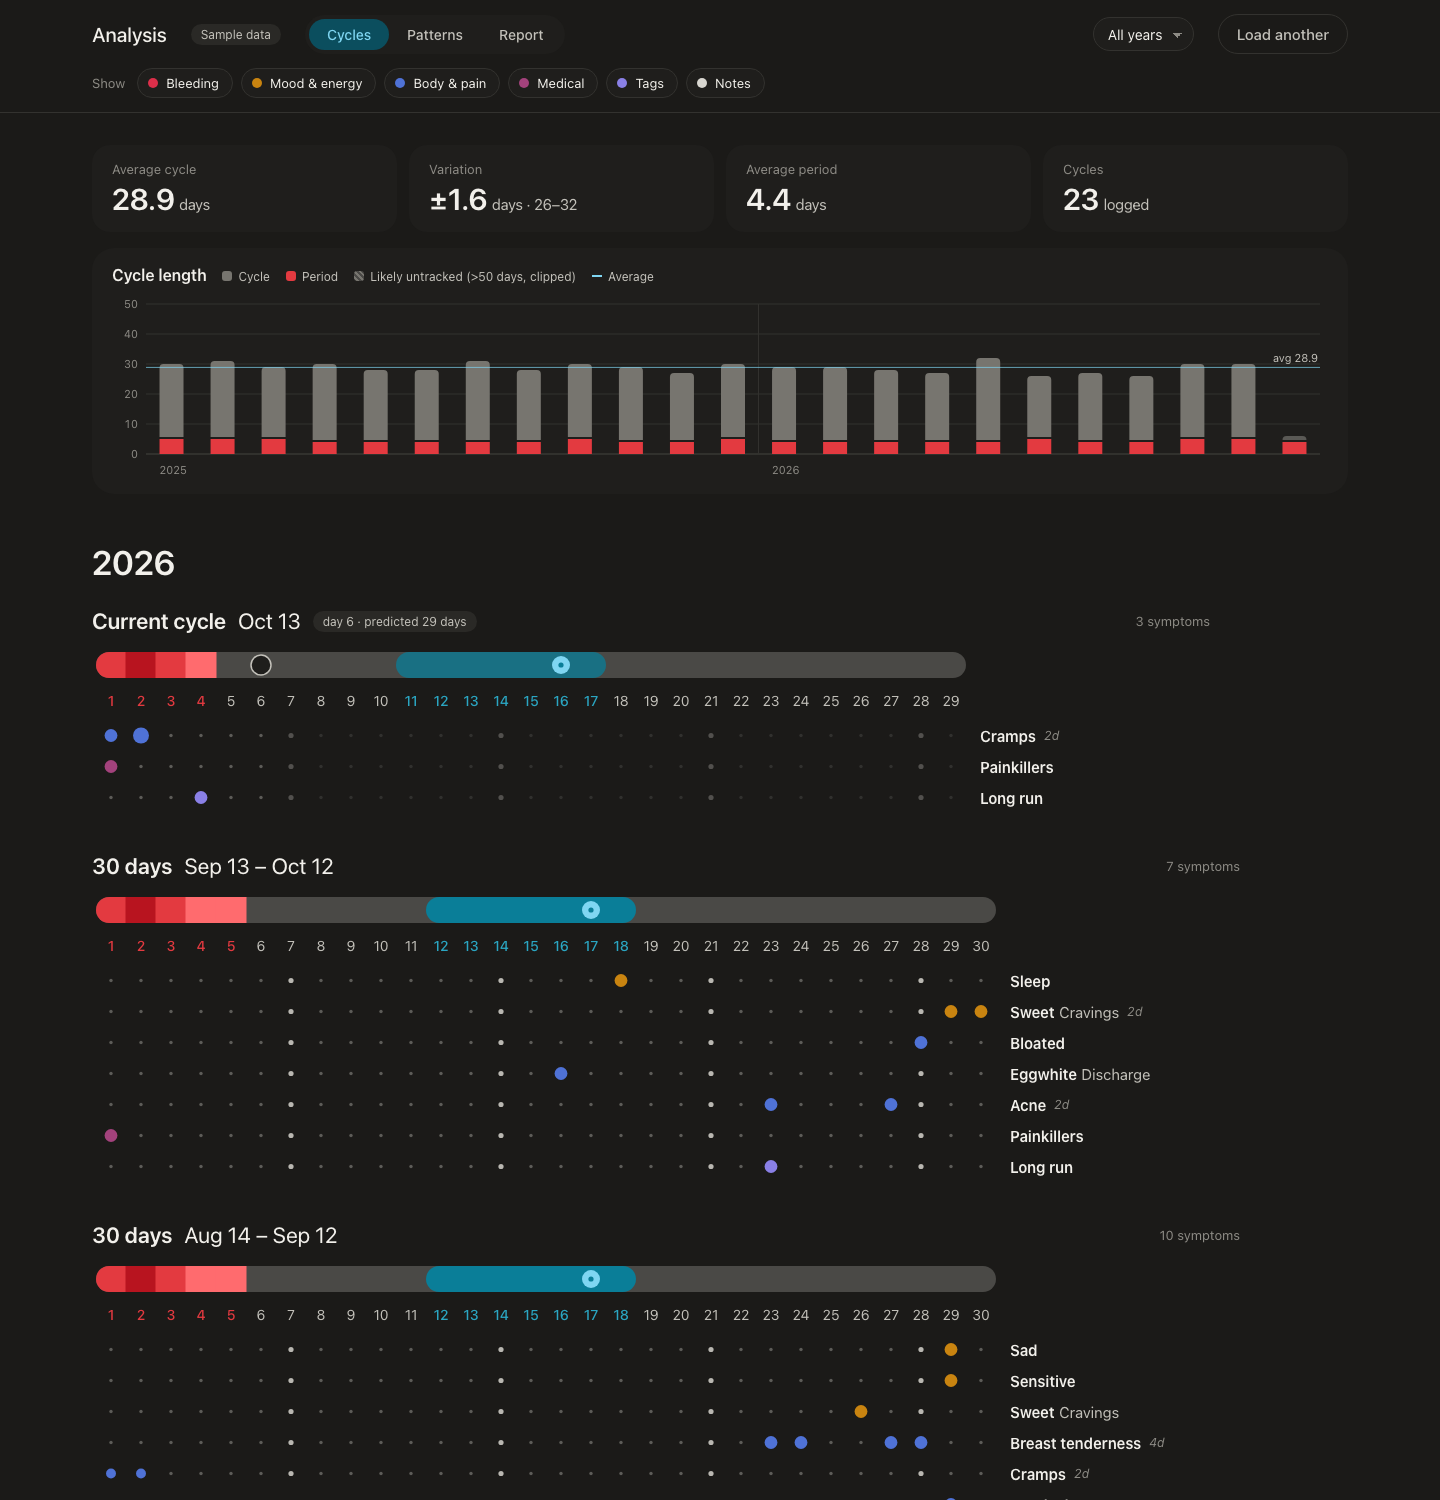
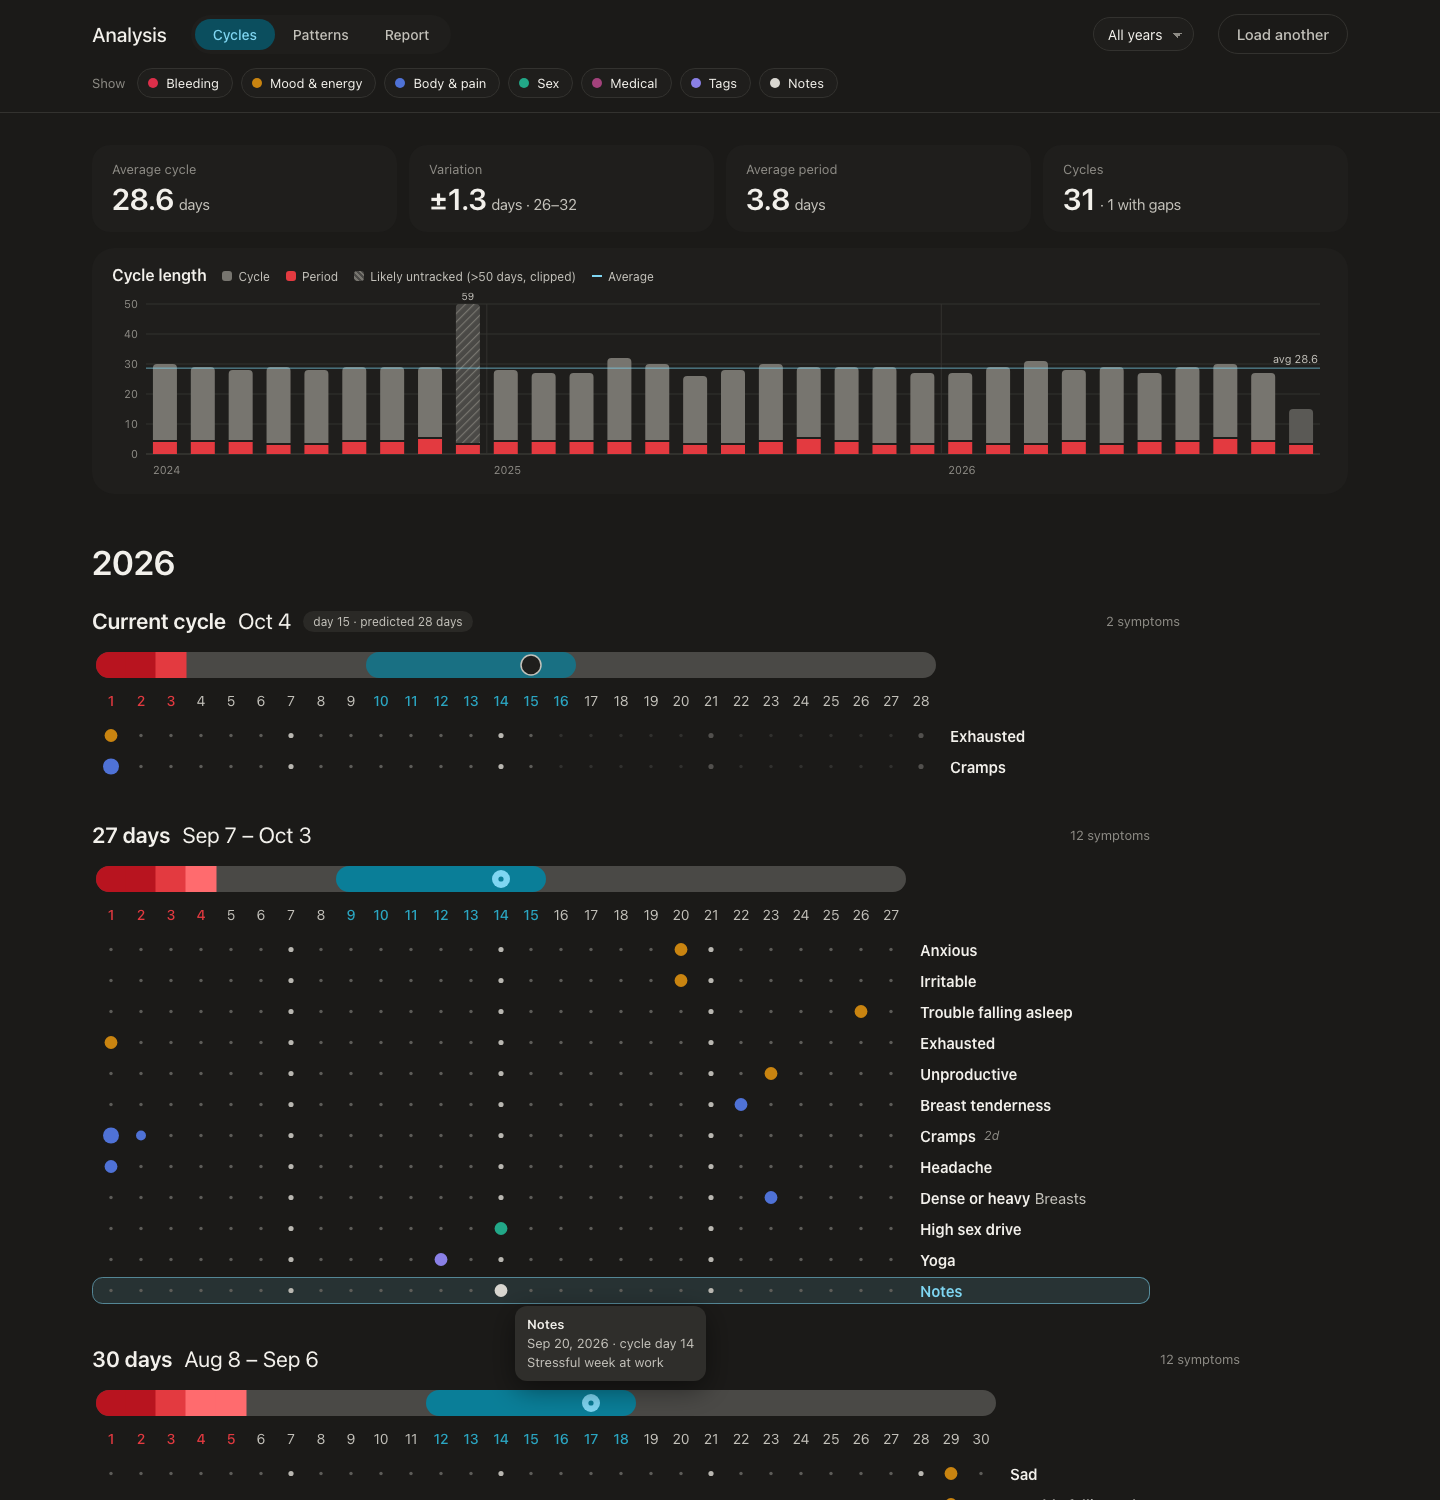
Add a made-up sample export folder shared with 'Try with sample data'
- sampleExport() now mirrors a real export's record shapes (merged options per
  day, pain severity, 22 entry types) and is anchored to an end date
- scripts/make-sample-export.mjs writes it to sample-data/ClueDataDownload-SAMPLE
- README screenshots regenerated from the sample folder; start screen added

diff --git a/index.html b/index.html
@@ -1192,43 +1192,94 @@ document.addEventListener('change', e => {
 let rt;
 addEventListener('resize', () => { clearTimeout(rt); rt = setTimeout(() => state.model && render(), 150); });
 
-/* Made-up export for trying the app — deterministic, ~21 months, plausible patterns. Never stored. */
-function sampleExport() {
+/* sample:start — made-up export with the same record shapes as a real Clue export.
+   Deterministic: the same seed gives the same cycles, ending at `endDay`. The app passes
+   today (so the last cycle is current); scripts/make-sample-export.mjs writes it to
+   sample-data/ with a fixed date for reproducible screenshots. Never stored. */
+function sampleExport(endDay) {
   let seed = 20261018;
   const rnd = () => { seed = seed + 0x6D2B79F5 | 0; let t = Math.imul(seed ^ seed >>> 15, 1 | seed); t = t + Math.imul(t ^ t >>> 7, 61 | t) ^ t; return ((t ^ t >>> 14) >>> 0) / 4294967296; };
-  const iso = n => fromDay(n).toISOString().slice(0, 10);
-  const out = [];
-  const add = (day, type, value) => { if (day <= todayDay) out.push({ type, id: `sample-${out.length}`, date: iso(day), value }); };
-  const opt = option => [{ option }];
-  const sev = () => ({ severity: rnd() < .25 ? 'severe' : rnd() < .55 ? 'moderate' : 'mild' });
-  const notes = ['Started iron supplement', 'Travel — slept badly', 'Very stressful week at work', 'New running shoes, long run', 'Skipped coffee all week'];
-  for (let start = todayDay - 640, n = 0; start <= todayDay; n++) {
+  const hex = n => Array.from({ length: n }, () => Math.floor(rnd() * 16).toString(16)).join('');
+  const records = new Map();   // one record per type per day, options merged — like the real export
+  const add = (day, type, value) => {
+    const id = `${hex(8)}-${hex(4)}-4${hex(3)}-a${hex(3)}-${hex(12)}`;
+    if (day > endDay) return;
+    const rec = records.get(type + day);
+    if (!rec) records.set(type + day, { type, id, day, value });
+    else if (Array.isArray(rec.value)) for (const v of value) if (!rec.value.some(x => x.option === v.option)) rec.value.push(v);
+  };
+  const o = (...opts) => opts.map(option => ({ option }));
+  const sev = () => ({ severity: rnd() < .2 ? 'severe' : rnd() < .55 ? 'moderate' : 'mild' });
+  const notes = ['Started iron supplement', 'Travel, slept badly', 'Stressful week at work', 'Long weekend, felt great', 'Cut back on coffee'];
+
+  for (let start = endDay - 900, n = 0; start <= endDay; n++) {
     const len = Math.round(29 + (rnd() + rnd() + rnd() - 1.5) * 3);
-    const day = cd => start + cd - 1, before = k => start + len - k;
-    const plen = rnd() < .4 ? 5 : 4;
-    ['medium', 'heavy', 'medium', 'light', 'light'].slice(0, plen).forEach((f, i) => add(day(i + 1), 'period', { option: f }));
-    if (rnd() < .3) add(before(1), 'spotting', opt('brown'));
-    for (const cd of [1, 2]) if (rnd() < (cd === 1 ? .85 : .6)) add(day(cd), 'pain', [{ option: 'period_cramps', extent: sev() }, ...(rnd() < .35 ? [{ option: 'lower_back' }] : [])]);
-    if (rnd() < .5) add(day(1), 'medication', opt('painkillers'));
-    if (rnd() < .3) add(day(rnd() < .5 ? 1 : 2), 'energy', opt('exhausted'));
-    if (rnd() < .5) add(before(15 + Math.floor(rnd() * 3)), 'discharge', opt('egg_white'));
-    if (rnd() < .25) add(before(14), 'pain', opt('ovulation'));
-    if (rnd() < .2) add(day(8 + Math.floor(rnd() * 5)), 'energy', opt('energetic'));
-    for (let k = 1; k <= 8; k++) {
-      if (rnd() < .3 && k >= 2) add(before(k), 'pain', [{ option: 'breast_tenderness' }]);
-      if (rnd() < (k <= 4 ? .25 : .05)) add(before(k), 'feelings', [{ option: rnd() < .5 ? 'sad' : 'irritable' }, ...(rnd() < .4 ? [{ option: 'sensitive' }] : [])]);
-      if (rnd() < (k <= 6 ? .14 : .03)) add(before(k), 'craving', opt('sweet'));
-      if (rnd() < (k <= 4 ? .18 : .04)) add(before(k), 'digestion', opt('bloated'));
-      if (rnd() < (k <= 5 ? .12 : .03)) add(before(k), 'skin', opt('acne'));
+    const day = cd => start + cd - 1, before = k => start + len - k, any = () => day(1 + Math.floor(rnd() * len));
+    const ov = len - 13;
+
+    // cycle 9's period goes unlogged, so the app shows one ~58-day "likely untracked" cycle
+    if (n !== 9) {
+      const plen = 3 + (rnd() < .5) + (rnd() < .2);
+      const flows = [rnd() < .4 ? 'heavy' : 'medium', rnd() < .06 ? 'very_heavy' : 'heavy', 'medium', 'light', 'light'];
+      for (let i = 0; i < plen; i++) add(day(i + 1), 'period', { option: flows[i] });
+      if (rnd() < .2) add(day(plen + 1), 'spotting', o('red'));
+      if (rnd() < .85) add(day(1), 'pain', [{ option: 'period_cramps', extent: sev() }, ...(rnd() < .35 ? o('lower_back') : [])]);
+      if (rnd() < .6) add(day(2), 'pain', [{ option: 'period_cramps', extent: sev() }]);
+      if (rnd() < .25) add(day(3), 'pain', [{ option: 'period_cramps', extent: { severity: 'mild' } }]);
+      if (rnd() < .5) add(day(1), 'medication', o('painkillers'));
+      if (rnd() < .25) add(day(2), 'medication', o('painkillers'));
+      if (rnd() < .3) add(day(1 + (rnd() < .5)), 'energy', o('exhausted'));
+      if (rnd() < .2) add(day(1), 'pain', o('headache'));
     }
-    if (rnd() < .3) add(day(1 + Math.floor(rnd() * len)), 'pain', opt('headache'));
-    if (rnd() < .5) add(day(1 + Math.floor(rnd() * len)), 'tags', opt('Long run'));
-    if (rnd() < .2) add(day(1 + Math.floor(rnd() * len)), 'sleep_duration', { minutes: 360 + Math.floor(rnd() * 150) });
-    if (n % 4 === 2) add(day(3 + Math.floor(rnd() * 20)), 'notes', { text: notes[n / 4 % notes.length | 0] });
+    if (rnd() < .3) add(before(1), 'spotting', o('brown'));
+
+    // around ovulation
+    if (rnd() < .5) add(day(ov - 1 + Math.floor(rnd() * 3)), 'discharge', o('egg_white'));
+    if (rnd() < .2) add(day(ov), 'pain', o('ovulation'));
+    if (rnd() < .15) add(day(ov - Math.floor(rnd() * 3)), 'sex_life', o('high_sex_drive'));
+    if (rnd() < .2) add(day(7 + Math.floor(rnd() * 6)), 'energy', o('energetic'));
+    if (rnd() < .12) add(day(8 + Math.floor(rnd() * 6)), 'feelings', o('happy'));
+    if (rnd() < .1) add(day(9 + Math.floor(rnd() * 5)), 'social_life', o('sociable'));
+
+    // the days before the next period
+    for (let k = 1; k <= 8; k++) {
+      if (k >= 2 && rnd() < .3) add(before(k), 'pain', o('breast_tenderness'));
+      if (rnd() < .15) add(before(k), 'breasts_and_chest', o(rnd() < .7 ? 'dense_or_heavy' : 'swollen_breasts'));
+      if (rnd() < (k <= 4 ? .25 : .05)) add(before(k), 'feelings', o(rnd() < .5 ? 'sad' : 'irritable', ...(rnd() < .4 ? ['sensitive'] : []), ...(rnd() < .15 ? ['anxious'] : [])));
+      if (rnd() < (k <= 5 ? .1 : .03)) add(before(k), 'mind', o(rnd() < .6 ? 'stressed' : 'unproductive'));
+      if (k <= 3 && rnd() < .08) add(before(k), 'social_life', o('withdrawn'));
+      if (rnd() < (k <= 6 ? .14 : .03)) add(before(k), 'craving', o(rnd() < .8 ? 'sweet' : 'salty'));
+      if (rnd() < (k <= 4 ? .18 : .04)) add(before(k), 'digestion', o('bloated', ...(rnd() < .3 ? ['gassy'] : [])));
+      if (rnd() < (k <= 5 ? .12 : .03)) add(before(k), 'skin', o('acne'));
+      if (k <= 3 && rnd() < .08) add(before(k), 'pms', { option: 'yes' });
+      if (k <= 3 && rnd() < .06) add(before(k), 'sleep_quality', o('trouble_falling_asleep'));
+    }
+
+    // scattered through the cycle
+    if (rnd() < .2) add(any(), 'pain', o('headache'));
+    if (rnd() < .05) add(any(), 'pain', [{ option: 'migraine', extent: sev() }]);
+    if (rnd() < .1) add(any(), 'energy', o('tired'));
+    if (rnd() < .1) add(any(), 'discharge', o('creamy'));
+    if (rnd() < .15) add(any(), 'sex_life', o('protected'));
+    if (rnd() < .2) add(any(), 'sleep_duration', { minutes: 360 + Math.floor(rnd() * 150) });
+    if (rnd() < .5) add(any(), 'tags', o('Long run'));
+    if (rnd() < .3) add(any(), 'tags', o('Yoga'));
+    if (n % 4 === 2) add(day(3 + Math.floor(rnd() * 20)), 'notes', { text: notes[(n >> 2) % notes.length] });
+    if (n === 2) add(day(10), 'weight', { kilograms: 63.5 });
+    if (n === 5) add(day(12), 'appointments', o('general_check_up'));
+    if (n === 18) add(day(9), 'appointments', o('ob_gyn'));
+    if (n === 14) for (let i = 0; i < 4; i++) {
+      add(day(16 + i), 'ailments', o('cold_flu', ...(i === 0 ? ['fever'] : [])));
+      add(day(16 + i), 'medication', o('cold_or_flu_meds'));
+    }
     start += len;
   }
-  return out;
+  return [...records.values()]
+    .sort((a, b) => a.type.localeCompare(b.type) || a.day - b.day)
+    .map(r => ({ type: r.type, id: r.id, date: fromDay(r.day).toISOString().slice(0, 10), value: r.value }));
 }
+/* sample:end */
+const SAMPLE_PROFILE = { cycle_length: 29, period_length: 4, predictions_enabled: true };
 
 function start(measurements, profile, sample = false) {
   document.getElementById('sampleTag').hidden = !sample;
@@ -1283,7 +1334,7 @@ document.getElementById('pickFolder').onclick = () => document.getElementById('f
 document.getElementById('pickFile').onclick = () => document.getElementById('fileInput').click();
 document.getElementById('folderInput').onchange = e => accept([...e.target.files]);
 document.getElementById('fileInput').onchange = e => accept([...e.target.files]);
-document.getElementById('trySample').onclick = () => start(sampleExport(), { cycle_length: 29 }, true);
+document.getElementById('trySample').onclick = () => start(sampleExport(todayDay), SAMPLE_PROFILE, true);
 document.getElementById('unload').onclick = () => {
   try { localStorage.removeItem(STORE_KEY); } catch (_) {}
   location.reload();

diff --git a/README.md b/README.md
@@ -14,12 +14,14 @@ A local, private viewer for the data export from the [Clue](https://helloclue.co
 - A [Content-Security-Policy](index.html) blocks **all** network requests (`connect-src 'none'`), so the browser itself prevents the page from sending your export anywhere. You can check this in the page source.
 - The last export you load is saved in your browser's local storage so a reload doesn't ask again. **Load another** clears it.
 
-Don't have an export handy? Click **Try with sample data** for made-up data (that's what the screenshots show).
+No export to hand? Click **Try with sample data**, or drop the made-up export in [`sample-data/ClueDataDownload-SAMPLE`](sample-data/) onto the page. All screenshots here use that sample.
 
 ## Using it
 
 1. Request your data export from Clue. It arrives as a zip; unzip it.
 2. Open the app and drop the `ClueDataDownload-…` folder (or just its `measurements.json`) onto the page.
+
+<img src="docs/start.png" alt="Start screen" width="560">
 
 ## Views
 
@@ -46,3 +48,5 @@ The export has no cycle boundaries or ovulation data, so they're derived:
 ## Development
 
 There's no build step: edit `index.html` and reload.
+
+The sample data is generated by `sampleExport()` in `index.html`. After changing it, run `node scripts/make-sample-export.mjs` to rewrite the sample folder, so the folder and the in-app button stay identical.

diff --git a/sample-data/README.md b/sample-data/README.md
@@ -1,0 +1,14 @@
+# Sample export (made-up data)
+
+`ClueDataDownload-SAMPLE/` is a fake Clue export: about 2½ years of invented cycles, ending 2026-10-15. Drop the folder onto the app to try it, or to take screenshots without using real data.
+
+It follows a real export's format (the same record shapes, options and severity fields), but every value is generated. It's the same data as the app's **Try with sample data** button, which shifts the dates so the last cycle is always the current one.
+
+It's deliberately varied so every feature has something to show: one unlogged period (a 59-day "likely untracked" cycle), a cold with medication, appointments, notes, tags, sleep and weight entries.
+
+Regenerate after changing the generator in `index.html`:
+
+```
+node scripts/make-sample-export.mjs            # ends 2026-10-15
+node scripts/make-sample-export.mjs 2027-01-31 # or pick an end date
+```
